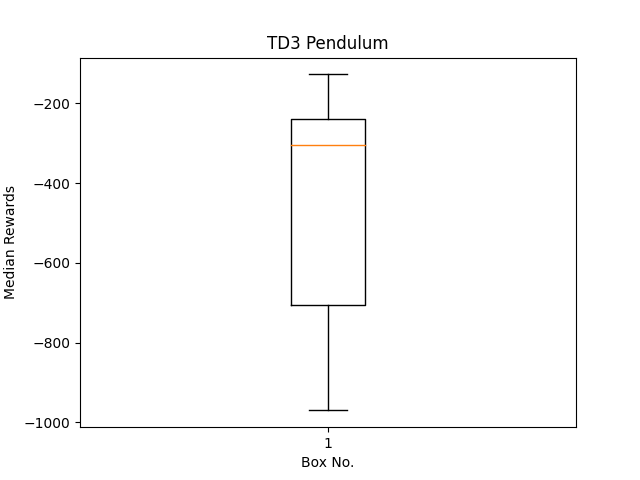
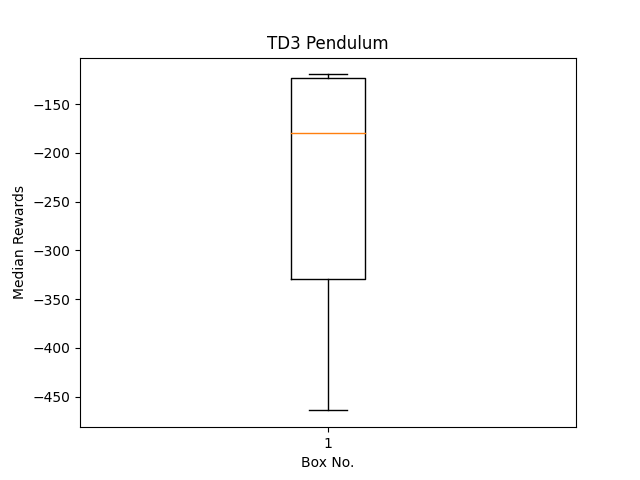
Pendulum figures with more samples

diff --git a/src/Pendulum Environment/pendulum_sim2real.py b/src/Pendulum Environment/pendulum_sim2real.py
@@ -228,19 +228,19 @@ def load(dir):
     reward = []
     reward_non = []
 
-    if dir == "./logs/logs1/Randomized/monitor.csv":
+    if dir == "./logs/Randomized/monitor.csv":
         for row in csv_df:
             reward.append(float(row[0]))
         reward_list.append(reward)
         print(reward_list)
 
-    if dir == "./logs/logs1/NonRandomized/monitor.csv":
+    if dir == "./logs/NonRandomized/monitor.csv":
         for row in csv_df:
             reward_non.append(float(row[0]))
         reward_list_non.append(reward_non)
         print(reward_list_non)
 
-    if dir == "./logs/logs2/monitor.csv":
+    if dir == "./logs/Boxplot/monitor.csv":
         for row in csv_df:
             reward.append(float(row[0]))
 
@@ -259,20 +259,12 @@ def perc(reward_list):
 
 
 
-# Create log directories
-log_randomized = "./logs/logs1/Randomized/"
-os.makedirs(log_randomized, exist_ok=True)
-log_non_randomized = "./logs/logs1/NonRandomized/"
-os.makedirs(log_non_randomized, exist_ok=True)
-log_dir = "./logs/logs2/"
-os.makedirs(log_dir, exist_ok=True)
-
 
 reward_list = []
 reward_list_non = []
 
-# Run 20 times
-for i in range(20):
+# Run 10 times
+for i in range(10):
 
     # Instantiate the simulated environment with domain randomization
     randomized_env = RandomizedPendulumEnv()
@@ -282,9 +274,9 @@ for i in range(20):
 
     # Instantiate the real environment and wrap it
     env_test = TestPendulumEnv()
-    env_test1 = Monitor(env_test, log_randomized)
-    env_test2 = Monitor(env_test, log_non_randomized)
-    env_test3 = Monitor(env_test, log_dir)
+    # env_test1 = Monitor(env_test, "./logs/Randomized/")
+    # env_test2 = Monitor(env_test, "./logs/NonRandomized/")
+    env_test3 = Monitor(env_test, "./logs/Boxplot/")
 
     # Check for warnings
     # check_env(randomized_env)
@@ -294,31 +286,31 @@ for i in range(20):
     n_actions = randomized_env.action_space.shape[-1]
     action_noise = NormalActionNoise(mean=np.zeros(n_actions), sigma=0.1 * np.ones(n_actions))
 
-    randomized_model = TD3("MlpPolicy", randomized_env, action_noise=action_noise, verbose=1)
-    non_randomized_model = TD3("MlpPolicy", non_randomized_env, action_noise=action_noise, verbose=1)
-    # model = TD3("MlpPolicy", randomized_env, action_noise=action_noise, verbose=1)
+    # randomized_model = TD3("MlpPolicy", randomized_env, action_noise=action_noise, verbose=1)
+    # non_randomized_model = TD3("MlpPolicy", non_randomized_env, action_noise=action_noise, verbose=1)
+    model = TD3("MlpPolicy", randomized_env, action_noise=action_noise, verbose=1)
 
-    timesteps = int(50000)
+    timesteps = int(500000)
 
-    # For every 10 episodes of learning, test to the real environment (with domain randomization)
-    randomized_model.learn(total_timesteps=timesteps, log_interval=50, eval_env=env_test1, eval_freq=2000, n_eval_episodes=1, eval_log_path=log_randomized)
-    # For every 10 episodes of learning, test to the real environment (without domain randomization)
-    non_randomized_model.learn(total_timesteps=timesteps, log_interval=50, eval_env=env_test2, eval_freq=2000, n_eval_episodes=1, eval_log_path=log_non_randomized)
+    # # For every 10 episodes of learning, test to the real environment (with domain randomization)
+    # randomized_model.learn(total_timesteps=timesteps, log_interval=500, eval_env=env_test1, eval_freq=2000, n_eval_episodes=1, eval_log_path="./logs/Randomized/")
+    # # For every 10 episodes of learning, test to the real environment (without domain randomization)
+    # non_randomized_model.learn(total_timesteps=timesteps, log_interval=500, eval_env=env_test2, eval_freq=2000, n_eval_episodes=1, eval_log_path="./logs/NonRandomized/")
 
-    # After 50000 steps of learning, test to the real environment
-    # model.learn(total_timesteps=timesteps, log_interval=50, eval_env=env_test3, eval_freq=50000, n_eval_episodes=10, eval_log_path=log_dir)
+    # After 500000 steps of learning, test to the real environment
+    model.learn(total_timesteps=timesteps, log_interval=500, eval_env=env_test3, eval_freq=500000, n_eval_episodes=1, eval_log_path="./logs/Boxplot/")
 
 
     # Dataframe split to get only the important data (rewards)
-    choice = 1
-    dir_randomized = "./logs/logs1/Randomized/monitor.csv"
-    load(dir_randomized)
-    dir_non_randomized = "./logs/logs1/NonRandomized/monitor.csv"
-    load(dir_non_randomized)
+    # choice = 1
+    # dir_randomized = "./logs/Randomized/monitor.csv"
+    # load(dir_randomized)
+    # dir_non_randomized = "./logs/NonRandomized/monitor.csv"
+    # load(dir_non_randomized)
 
-    # choice = 2
-    # dir = "./logs/logs2/monitor.csv"
-    # load(dir)
+    choice = 2
+    dir = "./logs/Boxplot/monitor.csv"
+    load(dir)
 
 
 
